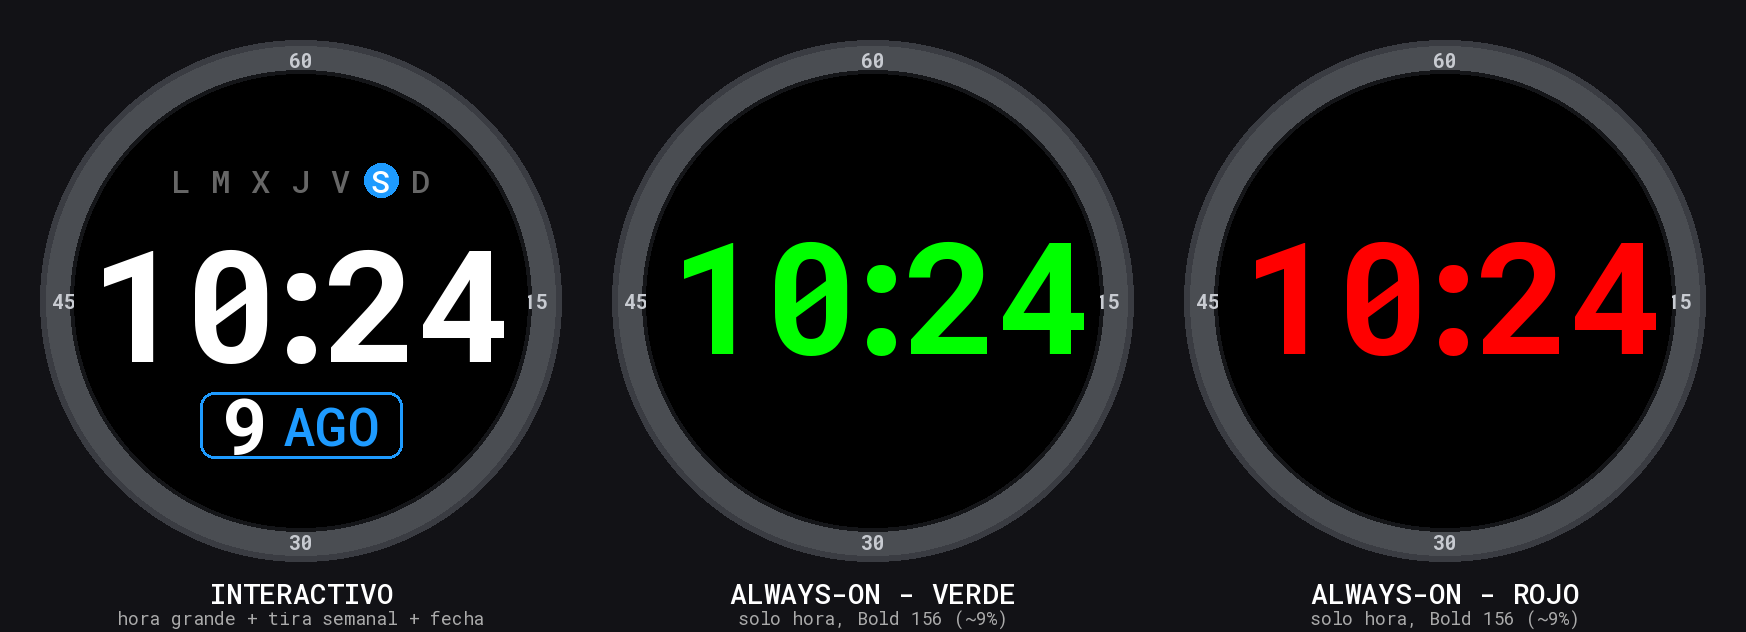
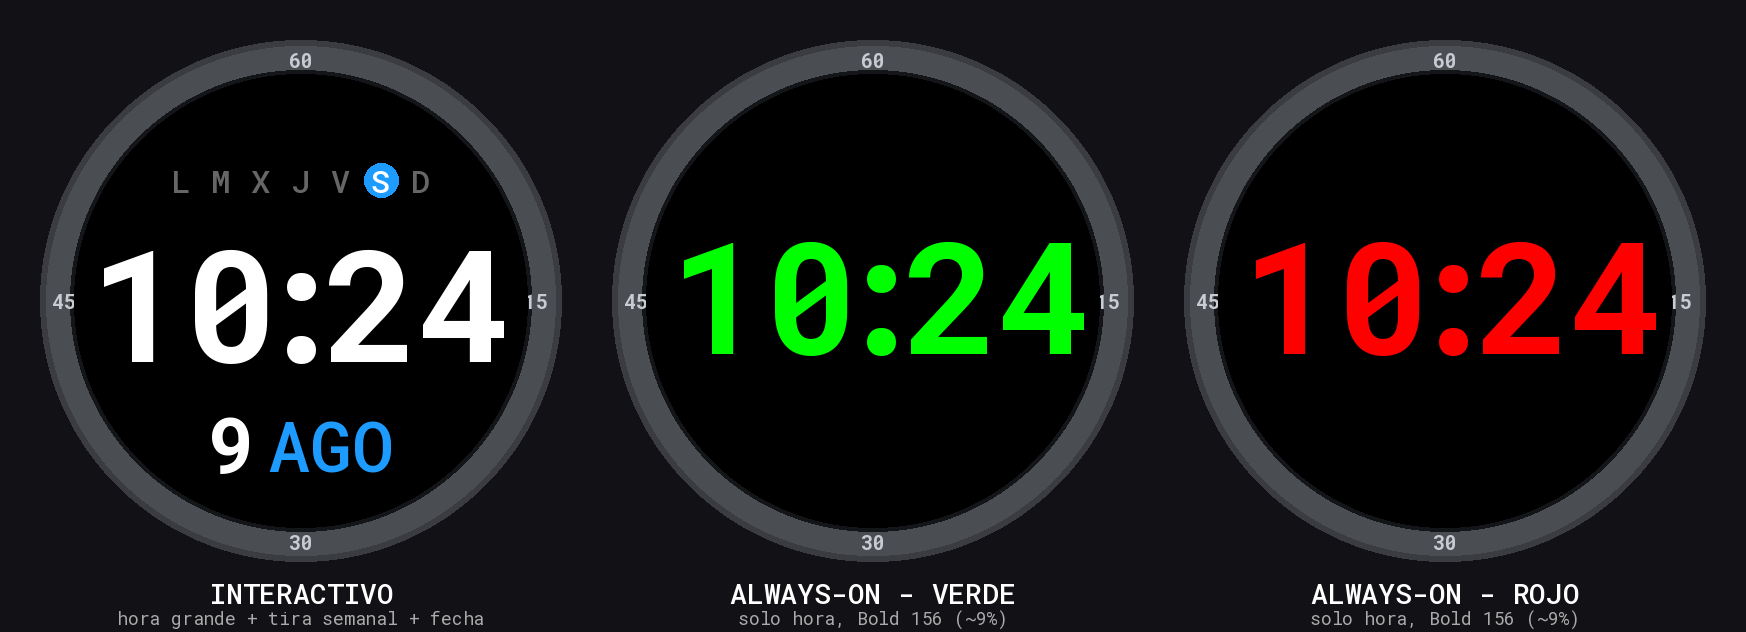
Remove date box, enlarge month, lower date for separation
Per user feedback:
- Remove the accent rounded-rectangle around the date (it sat too close to
  the time digits); show just the white day number + accent month.
- Enlarge the month font to Medium 70 (MonBig regenerated).
- Lower the date row (Y_DATE 0.775 -> 0.815) so it clears the big time.
- Update preview to match.

Claude-Session: https://claude.ai/code/session_01Spqi8874cLT5cy9qNW1EXh

Changed region(s): [[0.0928, 0.6013, 0.2474, 0.7516]]

diff --git a/preview/preview_render.py b/preview/preview_render.py
@@ -21,10 +21,10 @@ RED = (255, 0, 0)            # 0xFF0000
 # fuentes (mismos tamaños que el código / BMFont)
 f_time = ImageFont.truetype(f"{SRC}/RobotoMono-Bold.ttf", 156)    # hora grande
 f_num = ImageFont.truetype(f"{SRC}/RobotoMono-Bold.ttf", 78)      # nº día del mes
-f_mon = ImageFont.truetype(f"{SRC}/RobotoMono-Medium.ttf", 54)    # mes (3 letras)
+f_mon = ImageFont.truetype(f"{SRC}/RobotoMono-Medium.ttf", 70)    # mes (3 letras)
 f_init = ImageFont.truetype(f"{SRC}/RobotoMono-Medium.ttf", 32)   # iniciales
 
-Y_STRIP, Y_TIME, Y_DATE = 0.235, 0.50, 0.775
+Y_STRIP, Y_TIME, Y_DATE = 0.235, 0.50, 0.815
 
 
 def draw_big_time(d, cx, cy, color):
@@ -60,11 +60,7 @@ def draw_day_window(d, cx, cy, day, mon):
     gap = 14
     groupW = numW + gap + monW
     x0 = cx - groupW / 2
-    padX = 22
-    _, t, _, b = d.textbbox((cx, cy), num, font=f_num, anchor="lm")
-    boxH = (b - t) + 8
-    d.rounded_rectangle([x0 - padX, cy - boxH / 2, x0 + groupW + padX, cy + boxH / 2],
-                        radius=14, outline=ACCENT, width=3)
+    # Sin recuadro: solo número (blanco) + mes (acento).
     d.text((x0, cy), num, font=f_num, fill=WHITE, anchor="lm")
     d.text((x0 + numW + gap, cy), mon, font=f_mon, fill=ACCENT, anchor="lm")
 

diff --git a/fonts-src/gen_fonts.py b/fonts-src/gen_fonts.py
@@ -20,7 +20,7 @@ DATE_CHARS = LETTERS + DIGITS + " "
 JOBS = [
     ("TimeBig", "RobotoMono-Bold.ttf",   156, TIME_CHARS),   # hora (interactivo + AOD)
     ("NumBig",  "RobotoMono-Bold.ttf",    78, DIGITS),       # número del día del mes
-    ("MonBig",  "RobotoMono-Medium.ttf",  54, LETTERS),      # mes (3 letras) a su derecha
+    ("MonBig",  "RobotoMono-Medium.ttf",  70, LETTERS),      # mes (3 letras) a su derecha
     ("DateMed", "RobotoMono-Medium.ttf",  32, DATE_CHARS),   # iniciales de la tira semanal
 ]
 
